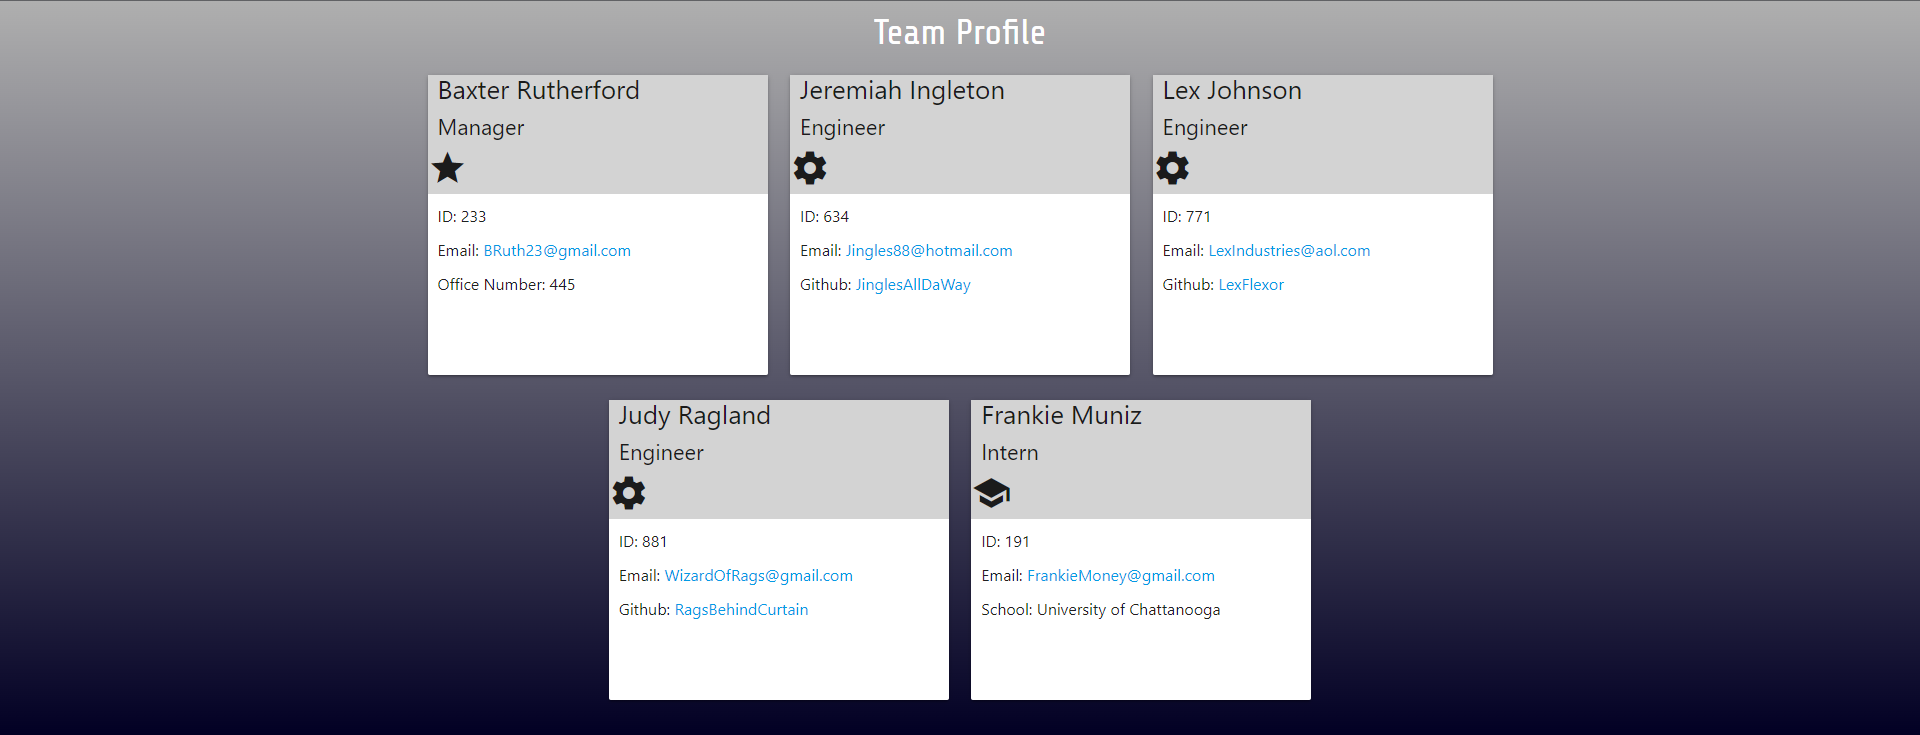
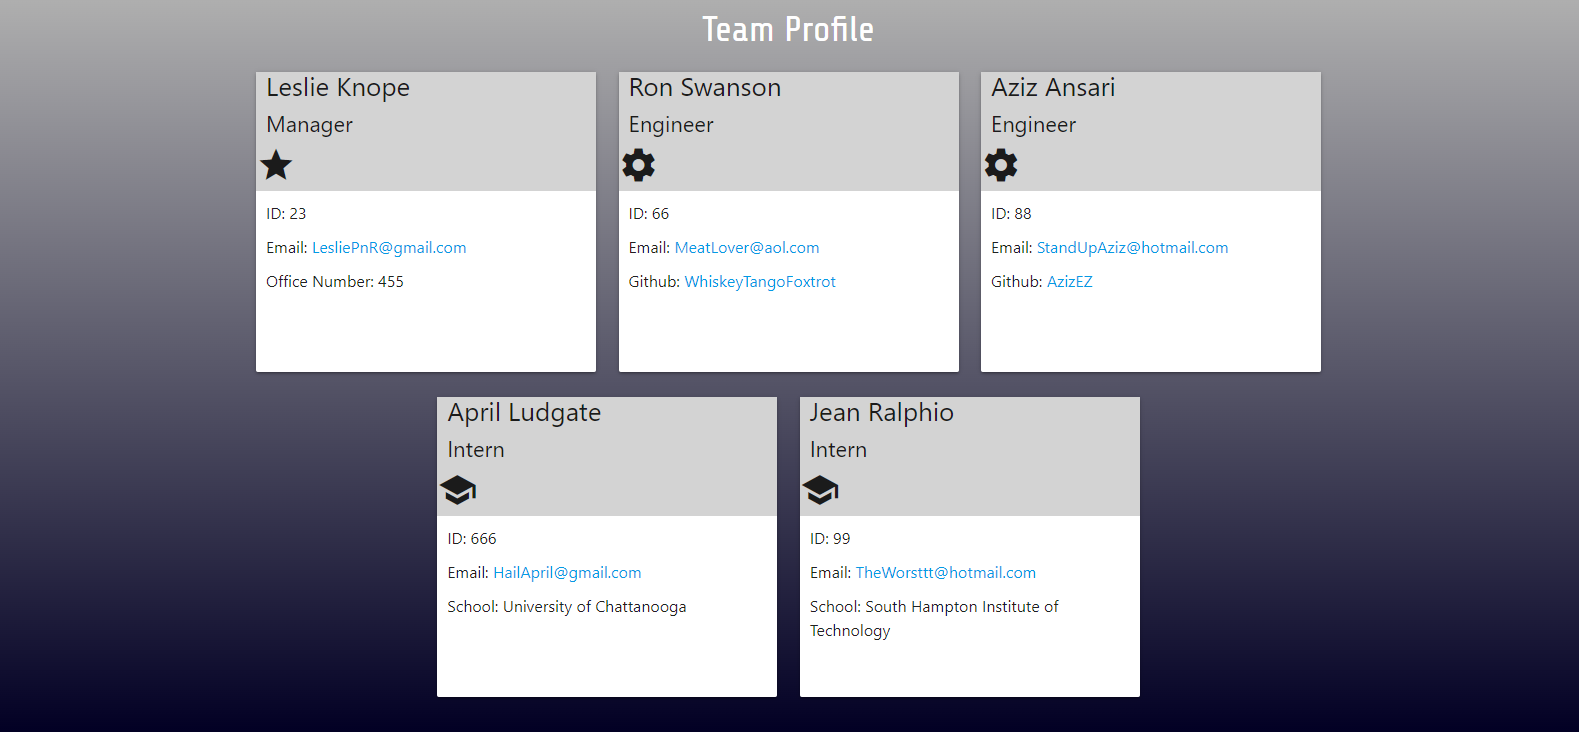
New HTML page

diff --git a/dist/index.html b/dist/index.html
@@ -1,0 +1,104 @@
+
+<!DOCTYPE html>
+<html lang="en">
+<head>
+    <meta charset="UTF-8">
+    <meta name="viewport" content="width=device-width, initial-scale=1.0">
+    <title>Team Profile</title>
+    <link rel="stylesheet" href="https://cdnjs.cloudflare.com/ajax/libs/font-awesome/5.11.2/css/all.min.css">
+    <link href="https://fonts.googleapis.com/css?family=Public+Sans:300i,300,500&display=swap" rel="stylesheet">
+    <link rel="preconnect" href="https://fonts.googleapis.com">
+    <link rel="preconnect" href="https://fonts.gstatic.com" crossorigin>
+    <link href="https://fonts.googleapis.com/css2?family=Share+Tech&display=swap" rel="stylesheet">
+    <link rel="stylesheet" href="https://cdnjs.cloudflare.com/ajax/libs/materialize/1.0.0/css/materialize.min.css">
+    <link href="https://fonts.googleapis.com/icon?family=Material+Icons" rel="stylesheet">
+    <link rel="stylesheet" href="styles.css">
+  </head>
+    <body>
+      <header>
+          <nav class="navbar" id="navbar">
+              <span class="navbar-brand mb-0 h1 w-100 text-center" id="navbar-text">Team Profile</span>
+          </nav>
+      </header>
+      <main>
+          <div class="container">
+              <div class="row" id="team-cards">
+                  
+<div class="col s-4 mt-4">
+    <div class="card small h-100">
+        <div class="card-header">
+            <h3>Leslie Knope</h3>
+            <h4>Manager</h4><i class="material-icons">star</i>
+        </div>
+        <div class="card-body">
+            <p class="id">ID: 23</p>
+            <p class="email">Email: <a href="mailto:LesliePnR@gmail.com">LesliePnR@gmail.com</a></p>
+            <p class="office">Office Number: 455</p>
+        </div>
+    </div>
+</div>
+
+<div class="col s-4 mt-4">
+    <div class="card small h-100">
+        <div class="card-header">
+            <h3>Ron Swanson</h3>
+            <h4>Engineer</h4><i class="material-icons">settings</i>
+        </div>
+        <div class="card-body">
+            <p class="id">ID: 66</p>
+            <p class="email">Email: <a href="mailto:MeatLover@aol.com">MeatLover@aol.com</a></p>
+            <p class="github">Github: <a href="https://github.com/WhiskeyTangoFoxtrot">WhiskeyTangoFoxtrot</a></p>
+        </div>
+    </div>
+</div>
+
+<div class="col s-4 mt-4">
+    <div class="card small h-100">
+        <div class="card-header">
+            <h3>Aziz Ansari</h3>
+            <h4>Engineer</h4><i class="material-icons">settings</i>
+        </div>
+        <div class="card-body">
+            <p class="id">ID: 88</p>
+            <p class="email">Email: <a href="mailto:StandUpAziz@hotmail.com">StandUpAziz@hotmail.com</a></p>
+            <p class="github">Github: <a href="https://github.com/AzizEZ">AzizEZ</a></p>
+        </div>
+    </div>
+</div>
+
+<div class="col s-4 mt-4">
+    <div class="card small h-100">
+        <div class="card-header">
+            <h3>April Ludgate</h3>
+            <h4>Intern</h4><i class="material-icons">school</i>
+        </div>
+        <div class="card-body">
+            <p class="id">ID: 666</p>
+            <p class="email">Email: <a href="mailto:HailApril@gmail.com">HailApril@gmail.com</a></p>
+            <p class="school">School: University of Chattanooga</p>
+        </div>
+    </div>
+</div>
+
+<div class="col s-4 mt-4">
+    <div class="card small h-100">
+        <div class="card-header">
+            <h3>Jean Ralphio</h3>
+            <h4>Intern</h4><i class="material-icons">school</i>
+        </div>
+        <div class="card-body">
+            <p class="id">ID: 99</p>
+            <p class="email">Email: <a href="mailto:TheWorsttt@hotmail.com">TheWorsttt@hotmail.com</a></p>
+            <p class="school">School: South Hampton Institute of Technology</p>
+        </div>
+    </div>
+</div>
+
+              </div>
+          </div>
+      </main>
+      
+    </body>
+    <script src="https://code.jquery.com/jquery-3.5.1.slim.min.js" integrity="sha384-DfXdz2htPH0lsSSs5nCTpuj/zy4C+OGpamoFVy38MVBnE+IbbVYUew+OrCXaRkfj" crossorigin="anonymous"></script>
+    <script src="https://cdnjs.cloudflare.com/ajax/libs/materialize/1.0.0/js/materialize.min.js"></script>
+    </html>
